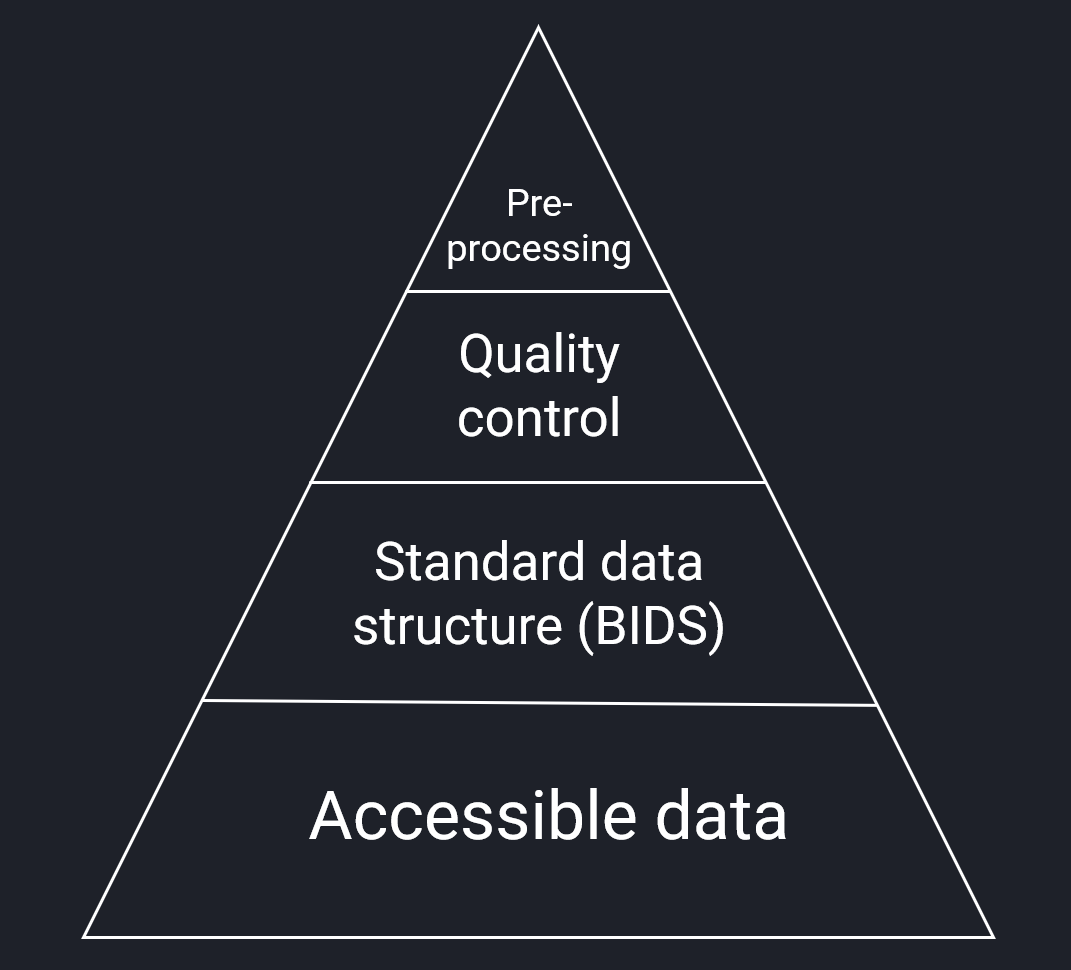
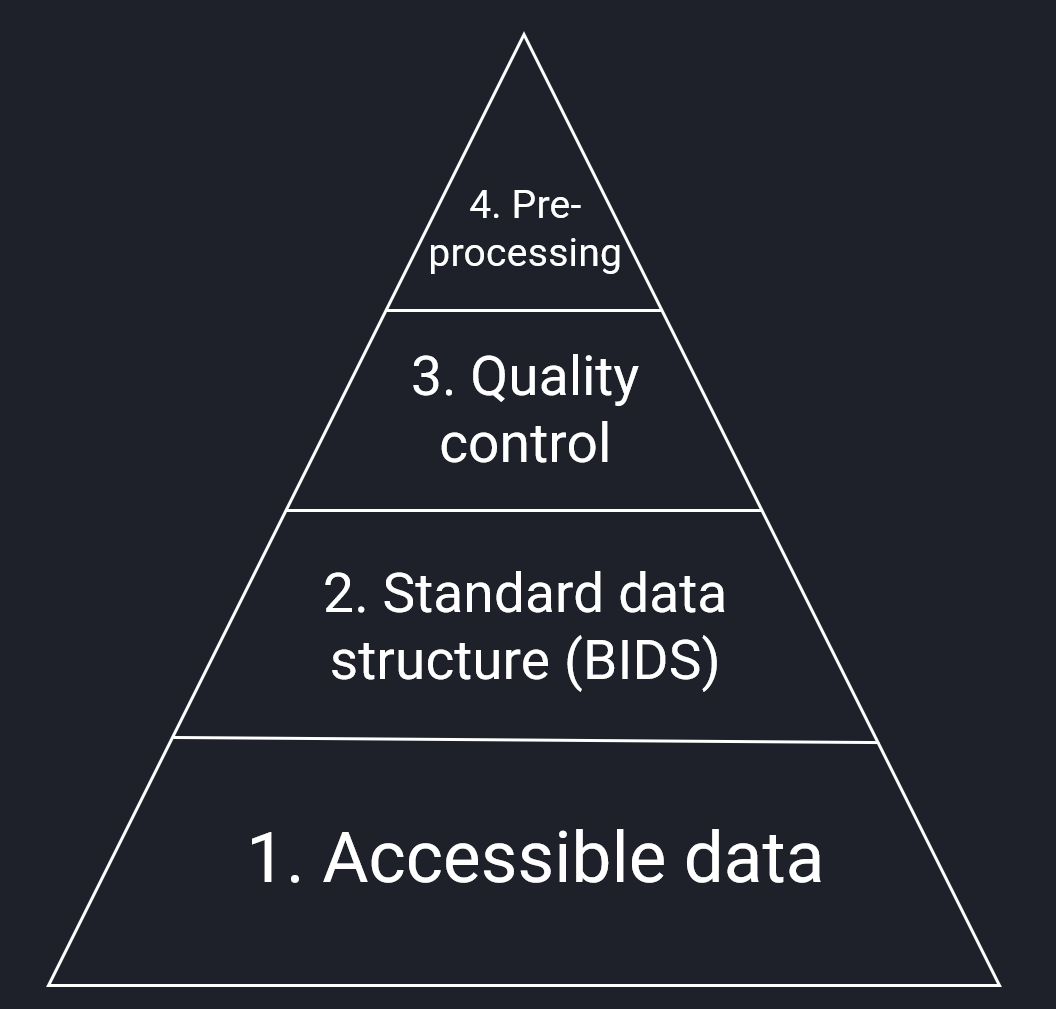
Merge pull request #85 from k-CIR/dev
New guide to BIDS MR data on SPICE

Pull request: New guide to BIDS MR data on SPICE

diff --git a/docs/assets/extra.css b/docs/assets/extra.css
@@ -39,3 +39,13 @@
     font-size: 1.2em;
 }
 */
+
+/* Float image+caption box to the right with text wrap */
+figure.float-right-box {
+    float: right;
+    clear: right;
+    margin: 0 0 1rem 1.5rem;
+    border: 1px solid rgb(185, 185, 185);
+    padding: 0.5rem;
+    max-width: 400px;
+}

diff --git a/docs/mrc/mrc-bids.md b/docs/mrc/mrc-bids.md
@@ -2,28 +2,200 @@
 title: BIDS at MRC
 ---
 
-To be able to co-register data from different imaging modalities in CIR, share data and analysis pipelines, it is important that data collected are saved in the standard Brain Imaging Data Structure ([BIDS](https://bids-specification.readthedocs.io/en/stable/)).
+The Brain Imaging Data Structure [BIDS](https://bids-specification.readthedocs.io/en/stable/) is a community driven standard for organizing imaging data that simplify data sharing and collaboration. Organizing your data according to BIDS promote data sharing and enable the use of common pre-processing pipelines and tools (e.g. [fmriprep](https://fmriprep.org/en/stable/) and [MRIQC](https://mriqc.readthedocs.io/en/latest/)), promoting traceable and reproducible research.
+
+## Your data at CIR
+If you don't have a project or are starting up data collection at MRC, consult the [road map for projects at CIR](https://ki.se/en/research/research-areas-centres-and-networks/research-centres/centre-for-imaging-research-cir/road-map-for-projects-at-cir) for logical next steps for you to consider. The [data collection page](https://k-cir.github.io/cir-wiki/01_data_collection/) provide context for how and why CIR gather data for your project and how to register your data collection.
 
 ## MRC raw data
-Data collected at MRC should be pushed to FOU1/Alvik after each completed session. A unique subject-ID is created for each session and data is stored under that ID and the time of scanning, in folders numbered according to MR-sequence.
+Research data collected at MRC should be pushed to the server **FOU1** after each completed session. Doing so, and registering your session in the [CIR-session Redcap form](https://redcap.link/cir-session) ensure your data is collected in your project folder on [SPICE](https://k-cir.github.io/cir-wiki/SPICE/) within 24 hours. The data is stored in the original DICOM format and organized according to a study specific subject ID, session number and MRI sequence number.
 
-**It is therefore important to note what ID gets created and assigned at each session.**
-
-If a subject was scanned with three sequences at *2024-12-01*, *13:45:15* and given the ID: *12345*, their raw DICOM data would be located on Alvik in:
-
+The raw data in your project on SPICE will be structured like this:
 ```markdown
-/data/dicom/12345_20241201_134515/
+/data/projects/yourproject/raw/mri/sub-XXX/ses-XX/
 ├── 00000001
+|       ├ 0000001.dcm
+|       ├ 0000002.dcm
+|       ├ ....
+|       └─0000180.dcm
 ├── 00000002
+|       ├ 0000001.dcm
+|       ├ 0000002.dcm
+|       ├ ....
+|       └─0001985.dcm
 └── 00000003
+        ├ 0000001.dcm
+        ├ 0000002.dcm
+        ├ ....
+        └─0022500.dcm
 ```
 <br>
 
-There are different tools available to make data collected at MRC compliant with BIDS, these are collected in the following repositories:
+CIR offer support in organizing your data as BIDS and provide an simplified interface for using the [dcm2bids](https://unfmontreal.github.io/Dcm2Bids/3.2.0/) in [parallel](https://www.gnu.org/software/parallel/) to effeciently organizing your data on SPICE. Essentially, dcm2bids look through your raw data, check if the DICOM metadata match the criteria you specify in a config file and if so, convert those DICOM files to Nifti and organize them in a BIDS format. 
 
-## [MRC-DICOM-to-BIDS](https://github.com/k-CIR/MRC-DICOM-to-BIDS)
-Written to run on the MRC compute server nick-named Alvik. Gather DICOM data collected at MRC and convert to BIDS compliant naming and format. Designed to extract all sequences in the [CIR-protocol](https://k-cir.github.io/cir-wiki/mrc/mrc-cir-protocol/) for up to three sessions per subject and rename subjects to study specific ID.
+The dcm2bids config file is a JSON file that specify what criteria to look for in the DICOM metadata for each sequence in your protocol and how to name the output files. Building this config file can be a bit tricky, but CIR offer this helper that extract the relevant DICOM metadata from your data and present it in an interactive table in your browser so you can select what criteria to include in your config file.
 
-Require [dcm2bids](https://unfmontreal.github.io/Dcm2Bids/3.2.0/) and [GNU parallel](https://www.gnu.org/software/parallel/) in your environment.
+This is done with two repositories, publicly available on Github:
 
-Note that ASL and SWI sequences are currently not defined in BIDS. See [BIDS extension proposal BEP004 & BEP005 for updates.](https://bids-specification.readthedocs.io/en/v1.2.1/06-extensions.html#bids-extension-proposals) For now, these are converted separately and copied to BIDS-derivatives.
+<p style="text-align: left; font-size: 36px; font-weight: bold; margin: 0 !important; padding: 0; line-height: 1.2;">
+  <a href="https://github.com/k-CIR/bids-utils-mr" target="_blank">1. bids-utils-mr</a>
+</p>
+<p style="margin-top: 0;">Clone the repository to your project folder on SPICE (using git). It will manage all the processing on SPICE and setup a server for you to inspect your data, create a config file and run processing via the browser on your local computer. The repository contain:</p>
+
+- **index.html** - A html file with an interface for running dcm2bids
+- **server.py** - A python script that set up an http server that function as a bridge between SPICE, were the process is happening, and your local computer.
+- **config_builder.py** - A python script that help you build the config file needed for dcm2bids.
+- **bids_runner.py** - A script running dcm2bids in parallel on SPICE.
+
+<p style="text-align: left; font-size: 36px; font-weight: bold; margin: 0 !important; padding: 0; line-height: 1.2;">
+  <a href="https://github.com/k-CIR/serve-mr-bids" target="_blank">2. serve-mr-bids</a>
+</p>
+<p style="margin-top: 0;">Clone this repository to your local machine. It contains a simple script that prompt for your user details for connecting to SPICE and project name.</p>
+
+- **ssh-connect.sh** - A shell script for connecting to SPICE via SSH prompting you for username, project and password (if you don't have SSH keys setup). The script will also setup port forwarding for you to be able to access the server running on SPICE from your local computer. On connection it prints a unique URL to terminal that you can open in your local browser to access the interface for running dcm2bids on SPICE.
+
+**Note:** As always you need to be on the KI network or connected to KI via VPN to access SPICE. You also need to have a user account on SPICE and access to the project you want to work with.
+
+<br>
+
+# Step by step guide
+
+## 0. Know your data
+Before you start, make sure you have an understanding of the data collected for your project. What sequences do you have in your protocol and how are they organized? What are the tasks and patient instructions included in the protocol? Do you need to recode your data, e.g. if you have other data that you want BIDS subject and session IDs to match?
+
+This approach assume your data is organized as it is delivered from CIR, i.e. on SPICE in `/data/projects/yourproject/raw/mri` - if you have renamed it, moved it, converted or transformed it already - you will run in to problems.
+
+## 1. Get repositories
+Clone the two repositories mentioned above, [bids-utils-mr](https://github.com/k-CIR/bids-utils-mr) to your project folder on SPICE and [serve-mr-bids](https://github.com/k-CIR/serve-mr-bids) to your local computer. If you are new to git and github, plenty of guides are available [online](https://google.com/search?q=git+github+tutorial+how to clone a repository). And there is a brief description on how to set up git with an SSH key for authentication in the [SPICE wiki pag: version control with git](https://k-cir.github.io/cir-wiki/SPICE/02_best_practice/#version-control-with-git).
+
+## 2. Connect to SPICE and start the server
+Run the `ssh-connect.sh` script from the `serve-mr-bids` repository on your local computer: `bash ssh-connect.sh` (use cmd or git bash on windows). This will prompt you for your SPICE username, project name and password (if you don't have SSH keys setup). After connection, the script will set up port forwarding for you to be able to access the server running on SPICE from your local computer. On connection it prints a URL, unique to this session, to terminal that you can open in your local browser to access the interface for running dcm2bids on SPICE.
+
+**Note:** the project name must be specified as its path/folder name in `/data/projects`.
+
+![Edit this page screenshot]({{ picture_path }}/serve-mr-bids.png){ width="650" }
+/// caption
+What it looks like when user **nikedv** connects to project **capsi** using an SSH key for authentication.
+///
+
+## 3. Analyze your data
+Open the URL in your local browser. If this is your first time, you will see the window below. You are prompted to select one representative session from your data. This session will be analyzed with the [dcm2bids_helper](https://unfmontreal.github.io/Dcm2Bids/3.2.0/tutorial/first-steps/#dcm2bids_helper-command) function.
+
+This function go through the DICOM files in the selected session and export their unique DICOM meta data to a JSON file for each unique sequence. These are saved in the `bids-utils-mr` folder on SPICE under `dcm2bids_helper/helper`.
+
+![Edit this page screenshot]({{ picture_path }}/mr-bids1.png){ width="750" }
+/// caption
+///
+
+Clicking **Analyze DICOM fields** will start the analysis. Depending on how many and what sequences are in the selected session, this will take a couple of minutes to complete. The ouput from `dcm2bids_helper` is printed in the faux terminal window on the page. When the analysis is done, a summary of the most commonly used fields are printed in a table in the browser so that you can use these to build your config file for dcm2bids. These are:
+
+- `Series number`: The order the sequence was run in your protocol.
+- `Series description`: The name of the sequence in your protocol.
+- `Pulse sequence name`: The name of the sequence as it is saved in the DICOM metadata.
+- `Image type`: A list of keywords describing the sequence, e.g. `ORIGINAL`, `PRIMARY`, `PERFUSION`
+
+You *can* select and analyze different sessions for defining your config file, but easiest for you is to select a session that you know contain all the sequences you are interested in. Check the box `Force dcm2bids_helper` to overwrite the current JSON helper files with new ones.
+
+## 4. Build config file
+
+<p style="text-align: left; font-size: 22px; font-weight: bold; margin: 0 !important; padding: 0; line-height: 1.2;">The input</p>
+<p style="margin-top: 0;">When <code>dcm2bids_helper</code> is done, the section <b>2. Specify config</b> shows up. This section summarize the DICOM fields from the JSON files created by <code>dcm2bids_helper</code> (i.e. your representative session). Now, you can use what is in your data to construct a config file for <code>dcm2bids</code> so it knows what inputs to look for in your raw data and what outputs to genarate as BIDS. This is an important step that can require some detective work, esepecially if you skipped step 0 above, but you only need to do this once.</p>
+
+If you ran the helper before, this table will show the summary from the last session you analyzed. In the image below is an example of a session that has one structural T1 sequence and an Arterial Spin Labeling (ASL) sequence.
+
+The left columns under **INPUT** are used to define the inputs for `dcm2bids`. That is, what do you want `dcm2bids` to look for in your data. Click on the fields in the table to select them to be included as a criteria for that sequence in the config file. You must select at least one field as a criteria in each sequence you want included.
+
+![Edit this page screenshot]({{ picture_path }}/mr-bids2.png){ width="750" }
+/// caption
+///
+
+Note that the ASL sequence (Series number 5) is split in two entries. Some sequences are split and need to be BIDSified separately. In the case of this ASL sequence, we see in the column `Image type` that the first entry is the `ORIGINAL` ASL data and the second entry the `DERIVED` m0 reference scan.
+
+![Edit this page screenshot]({{ picture_path }}/mr-bids3.png){ width="750" }
+/// caption
+///
+
+For the T1 it's enough to select its unique `Series description` as a criteria for identifying this as a unique sequence in the data. For the ASL sequence, the `Image type` must also be selected and included as a criteria to keep the original ASL data and the m0 reference scan separate in the BIDS output. That is, the combination of criteria must be unique for each row of data that you want in the BIDS output. If not, dcm2bids will not know how to separate them and they will be merged in the BIDS output, or separated by the best guess dcm2bids can make, usually by includig a `run-1` and `run-2` tag.
+
+
+<br>
+<p style="text-align: left; font-size: 22px; font-weight: bold; margin: 0 !important; padding: 0; line-height: 1.2;">The output</p>
+<p style="margin-top: 0;">For the output section you MUST specify the <b>datatype </b>and <b>suffix</b> as indicated by an angry asterisk. For MR, datatype is either <code>anat</code>, <code>func</code>, <code>perf</code>, <code>dwi</code> or <code>fmap</code>. See the <a href="https://bids-specification.readthedocs.io/en/stable/common-principles.html#definitions" target="_blank">BIDS documentation</a> for details on these. The suffix is more flexible but MUST match the datatype, generally the suffix specify the type of sequence used to collect the data, e.g. <code>T1w</code> or <code>FLAIR</code> for anatomical/structural data, <code>bold</code> for functional MRI data, and so on. The most common suffixes are available in a drop-down menu, but you can instead specify a specific suffix in free text under <code>Other suffix</code>.</p>
+
+In the image below, you can see we have specified datatype `anat` and suffix `T1w` for the T1 sequence, and datatype `perf` with suffix `asl` for the ASL sequence and `m0scan` for the m0 reference scan. This will result in the T1 sequence being saved as `sub-XXX_ses-XX_T1w.nii.gz` and the ASL sequence as `sub-XXX_ses-XX_asl.nii.gz` and `sub-XXX_ses-XX_m0scan.nii.gz` in the BIDS output.
+
+![Edit this page screenshot]({{ picture_path }}/mr-bids4.png){ width="1100" }
+/// caption
+///
+
+The other output fields are optional but can be used to further specify unique output file names. For example, many fMRI protocols include a task that should then be specified. Consult the [BIDS documentation](https://bids-specification.readthedocs.io/en/latest/appendices/entities.html) for the use of different entities, in short:
+
+- Task name `task`: The name of the task performed during the scan, e.g. `rest` for resting state fMRI or `nback` for an n-back working memory task.
+- Acquisition `acq`: The name of the acquisition protocol or equipment used. Useful for example if study is using more than one scanner model.
+- Run `run`: The run number of the sequence. Useful if you have more than one run of the same sequence in your protocol, e.g. two runs of resting state fMRI.
+- Description `desc`: Used to distinguish two files that do not otherwise have a distinguishing entity.
+- Intended for: Is used to specify the intended use of for example a fieldmap sequence, e.g. `fieldmap` or `sbref` for BOLD reference scans. This info is not included in the file name but is included in the JSON sidecar file and can be used by pre-processing pipelines to automatically identify fieldmaps and reference scans for their intended use.
+
+When you have specified a unique input as criteria, and a unique output for the resulting BIDS, for each sequence you want to include you click **Generate config file** to write your specifications to `dcm2bids_config.json` in the `bids-utils-mr` folder on SPICE. This is the config file that will be used as input for `dcm2bids` to organize your data as BIDS. This file will be loaded automatically next time you open this page, but you can also load it manually by clicking **Load config file**.
+
+If you do not have a complete, representative session with all the sequences you want to include in your BIDS output, you can still use **Append to config** to append a new sequence input criteria and output structure to the config file while keeping the existing specifications.
+
+You can also edit the config file manually if you want, in the tab **Config Editor** - but be careful to keep the JSON format.
+
+<p style="text-align: left; font-size: 22px; font-weight: bold; margin: 0 !important; padding: 0; line-height: 1.2;">A complete example</p>
+<p style="margin-top: 0;">The image below show a complete example from a study including 13 different sequences, most included in the standard, recommended <a href="https://k-cir.github.io/cir-wiki/mrc/mrc-cir-protocol/"; target="_blank">CIR protocol</a>.</p> Columns not used here are cropped out of the image to make it easier to read.
+
+![Edit this page screenshot]({{ picture_path }}/mr-bids5.png){ width="1100" }
+/// caption
+An example of a complete, and pretty busy, protocol. Scroll to the bottom of this page to see the output from running this config file.
+///
+
+Note that functional sequences, i.e. with data type `func` specify a task name to distinguish them from each other.
+
+This protocol include 4 `fmap` sequences, intended to be used as reference either for `fmri` or `dwi` sequences, and this is specified with the `Intended for` column. The `desc` column is used to distinguish two epi fieldmaps as the `Intended for` column is **not** included in the file name. Subsequently, these files will be named `sub-012_ses-01_desc-dwi_epi.nii.gz` and `sub-012_ses-01_desc-fmri_epi.nii.gz` in the BIDS output. Without the `desc` field these would both collide on the file name `sub-012_ses-01_epi.nii.gz` in this case.
+
+## 5. Inspect your config file
+You can view and make manual edits to your config file in the tab **Config Editor**. Be careful to keep the JSON format if you make manual edits here. It may be a good idea to keep a backup of your config file, both for book keeping and especially before making manual edits.
+
+![Edit this page screenshot]({{ picture_path }}/mr-bids6.png){ width="650" }
+/// caption
+What the bare bones of the config file look like - a JSON file with a list of dictionaries.
+///
+
+## 6. Check subjects and sessions
+On the final tab **Make BIDS** you first check that paths you are using in your project folder are correct and then click **Discover sessions** to list all the sessions available for you to BIDSify.
+
+![Edit this page screenshot]({{ picture_path }}/mr-bids7.png){ width="650" }
+/// caption
+///
+
+A table will show all subjects and sessions available in your raw data folder. You can specify which subjects and sessions to include in the BIDS output by checking the boxes in the table. Generally CIR will deliver your data in a pseduo-BIDS format but you can rename a subject and session if your raw data is not matching what you need for your BIDS output. Your recode-key will be saved as `session_recode.csv` in the `bids-utils-mr` folder on SPICE for you to keep track of how you have renamed your data.
+
+![Edit this page screenshot]({{ picture_path }}/mr-bids8.png){ width="950" }
+/// caption
+///
+
+In the image above we see two sessions discovered, one subject is saved as an ID and date-time `12345_20231224_133705`, a legacy format for MRI data at MRC. The participant ID is correctly extracted, but doesn't match our other subject and there is no session number.
+
+We simply type in a new subject ID and session number in the table to recode this session to match the BIDS output we want. In this case, we recode the subject to `sub-012` and session to `ses-01`. This is saved in the recode key so that next time we open this page, the same session is recoded to the same subject and session ID. Three digit subject IDs and two digit session numbers, both with leading zero-padding, are recommended.
+
+![Edit this page screenshot]({{ picture_path }}/mr-bids9.png){ width="950" }
+/// caption
+///
+
+## 7. Run dcm2bids
+Finally, you click **Run dcm2bids** to start the processing. This will run `dcm2bids` in parallel on SPICE for all the sessions you have selected. You can select the number of parallell processes, up to 24, in the box for `Max parallel workers`.
+
+Depending on how many sessions you have selected and how many sequences are in your protocol, this can take a while to complete. The output from `dcm2bids` is printed in the faux terminal window on the page so you can follow the progress and check for any errors.
+
+This process is designed to be able to run regularly during your project. No need to wait until you have collected all your data to start organizing it as BIDS. Rather, start early to identify and correct any issues with your config file or mismatch naming in your protocol or raw data.
+
+Your config file and recode key are saved in the `bids-utils-mr` folder in your project folder on SPICE and dcm2bids do not overwrite already existing BIDS files unless you tell it to (by checking `--clobber`).
+
+![Edit this page screenshot]({{ picture_path }}/mr-bids10.png){ width="800" }
+/// caption
+The output from the 13 sequences in the "complete example" config file from above, run on session recoded to `sub-012` and `ses-01`. The output is printed in the faux terminal window on the page so you can follow the progress and check for any errors.
+///
+
+## 8. Celebrate
+Congratulations!! 🎉 You have now organized your data as BIDS and can start using common pre-processing pipelines and tools for your data analysis. You are contributing to making your data more FAIR and reusable for other researchers, and you are saving time for yourself and others in the future by not having to re-invent the wheel for organizing your data for every new project. You can also share your config file with other researchers at CIR to further promote efficient data handling and sharing of best practices between projects.

diff --git a/docs/01_data_collection.md b/docs/01_data_collection.md
@@ -2,6 +2,21 @@ It is recommended to check out the [road map for projects at CIR](https://ki.se/
 
 Generally, data collected at CIR is gathered at the _Shared Platform for Imaging in the CIR Environment_ - SPICE. This is a high performance compute cluster that store data for active projects and offer compute resources for users to analyze their data remotely.
 
+## Purpose
+
+![CIR Pyramid]({{ picture_path }}/CIR-pyramid.png){ width="350" }
+/// caption
+    attrs: {class: float-right-box}
+The added value of having data organized in a standard format for all projects and modalitites is that sharing data and pre-processing is easy and different research groups do not have to re-invent the wheel for every new project.
+///
+
+CIR want to increase availability to imaging research at KI and specifically make it easier to conduct multimodal imaging research. No time should be wasted for individual researchers for finding, organizing and transforming imaging data. As data is gathered within a project, it can easily be structured according to the [BIDS](https://bids.neuroimaging.io/index.html){target ="_blank"} standard which allow for common pre-processing tools (or [BIDS-apps](https://bids.neuroimaging.io/tools/bids-apps.html){target="_blank"}, like [fmriprep](https://fmriprep.org/en/stable/){target="_blank"}, [petprep](https://github.com/nipreps/petprep){target="_blank"}, [PyMVPA](https://github.com/bids-apps/PyMVPA){target="_blank"}, etc.) to process the data. The goal for CIR is to:
+
+  1. Have data for all imaging facilities organized and available within 24 hours of collection.
+  2. Offer support to store all data in BIDS with minimal researcher input.
+  3. Offer quality control report of collected data within days of collection.
+  4. Disseminate and share pre-processing pipelines between projects (e.g. via this wiki and public git repos)
+
 ## Project and access
 Data must be collected within a project registered with CIR. Registering a project is done by the projects PI agreeing to the [user agreement](https://ki.se/en/research/research-areas-centres-and-networks/research-centres/centre-for-imaging-research-cir/user-agreement-details){target="_blank"}, and filling out and signing the [project registration webform](https://ki.se/en/research/research-areas-centres-and-networks/research-centres/centre-for-imaging-research-cir/register-new-project-at-cir){target="_blank"}.
 
@@ -32,25 +47,13 @@ A fundamental principle within CIR is that all data on SPICE is pseudonymized. H
 Overview of how different facilities (in this example MRC and NatMEG) use different data structures when data is collected and how CIR gather it in a BIDS-inspired (subject/session/modality) format in your project folder.
 ///
 
-If you are are only using one imaging modality and are used to organizing your raw data yourself, you can have whatever data is collected in your project syncronized to your project folder in the corresponding facilities data format (i.e. what is to the left in the image above).
+!!! note "Do it yourself?"
+    If you are used to organizing your raw data yourself, and do not want to register your data collection in Redcap, you can have whatever data is collected in your project syncronized to your project folder in the corresponding facilities data structure (i.e. what is to the left in the image above). In this case, CIR can not assist you with keeping track of the different subject-IDs used by the different facilities, provide the same level of support for organizing your data in BIDS or generate a report of what data is collected in your project.
 
-As you collect data in your project, a html-report is kept updated in your project folder on SPICE. This provide an overview of who collected what data when and where in your project, the key to the different IDs used by facilities and when data was collected and transferred to your project folder. This makes it easy to quickly gauge that everything gets collected as expected during your project.
+Using the redcap form to register your data collection, as described above, a html-report is kept updated in your project folder on SPICE. This provide an overview of who collected what data when and where in your project, the key to the different IDs used by facilities and when data was collected and transferred to your project folder. This makes it easy to quickly gauge that everything gets collected as expected during your project.
 
 ![Project report]({{ picture_path }}/project_overview_table.png){ width="1200" }
 /// caption
     attrs: {class: narrow-caption}
 An example of the overview report rendered in your project folder. The table can be sorted, searched and filtered by you for quick checking that data is collected as expected.
-///
-
-## Purpose
-CIR want to increase availability to imaging research at KI and specifically make it easier to conduct multimodal imaging research. No time should be wasted for individual researchers for finding, organizing and transforming imaging data. As data is gathered within a project, it can easily be structured according to the [BIDS](https://bids.neuroimaging.io/index.html){target ="_blank"} standard which allow for common pre-processing tools (or [BIDS-apps](https://bids.neuroimaging.io/tools/bids-apps.html){target="_blank"}, like [fmriprep](https://fmriprep.org/en/stable/){target="_blank"}, [petprep](https://github.com/nipreps/petprep){target="_blank"}, [PyMVPA](https://github.com/bids-apps/PyMVPA){target="_blank"}, etc.) to process the data. The goal for CIR is therefore:
-
-  1. ✅ Have data for all imaging facilities organized and available and  within 24 hours of collection.
-  2. Offer support to store all data in BIDS with minimal researcher input.
-  3. Offer quality control report of collected data wihtin days of collection.
-  4. Disseminate and share pre-processing pipelines between projects (e.g. via this wiki and public git repos)
-
-![CIR Pyramid]({{ picture_path }}/CIR-pyramid.png){ width="500" }
-/// caption
-The added value of having data organized in a standard format for all projects and modalitites is that sharing data and pre-processing is easy and different research groups do not have to re-invent the wheel for every new project.
 ///

diff --git a/docs/SPICE/01_how_to_connect.md b/docs/SPICE/01_how_to_connect.md
@@ -4,6 +4,8 @@ title: How to connect
 
 To get access to SPICE you need to be a member of a research group that has an active project at CIR. Fill out the [the webform on the KI web page](https://ki.se/en/research/research-areas-centres-and-networks/research-centres/centre-for-imaging-research-cir/request-to-access-the-cir-server)  to request a new user account. Access is granted after approval by the projects PI. Your user credentials (username and password) will be sent to you in the email address you provided in the form.
 
+If you already have a user account on SPICE and received access to a new project, you need to log out and back in <br>again with: `pkill -u yourusername` for your permissions to be updated.
+
 !!! warning "Password security"
     Your first course of action after receiving your credentials should be to change your password to something only you know. Use the command `passwd` after logging in for the first time and follow the prompts.
 